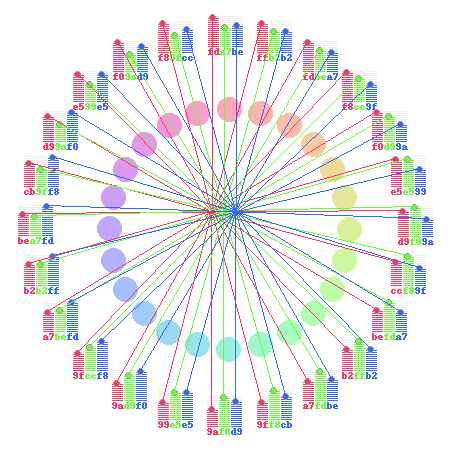
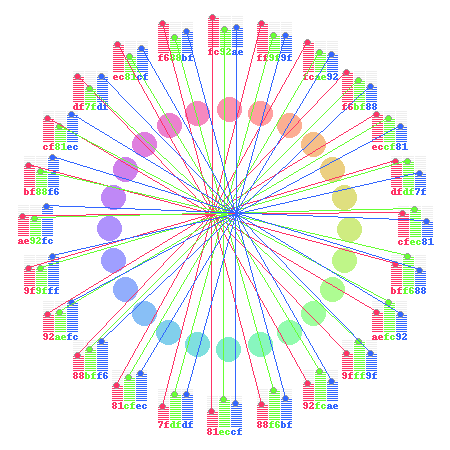
vivid まずまずのでき

diff --git a/step16.py b/step16.py
@@ -36,39 +36,64 @@ def main():
 
     im = Image.new('RGB', (450, 450), white)
     draw = ImageDraw.Draw(im)
-    # 正順
-    color_list = tone_filter(create_cos_wave(size), 1, 0)
+    color_list = unnormalize_filter(exaggeration_filter(
+        tone_filter(create_cos_wave(size), 1, 0)))
     draw_tone_circle(draw, theta_list, color_list)
-    # リバース
-    # color_list = reverse2_filter(create_cos_wave(size))
-    # draw_cell_circle(draw, 225, 225, 80, theta_list, color_list)
+    im.save('shared/vivid-tone.png')
+
+    im = Image.new('RGB', (450, 450), white)
+    draw = ImageDraw.Draw(im)
+    color_list = unnormalize_filter(tone_filter(create_cos_wave(size), 1, 0))
+    draw_tone_circle(draw, theta_list, color_list)
     im.save('shared/bright-tone.png')
 
     im = Image.new('RGB', (450, 450), white)
     draw = ImageDraw.Draw(im)
-    color_list = tone_filter(create_cos_wave(size), 0.2, 0.8)
+    color_list = unnormalize_filter(
+        tone_filter(create_cos_wave(size), 0.2, 0.8))
     draw_tone_circle(draw, theta_list, color_list)
     im.save('shared/pale-tone.png')
 
     im = Image.new('RGB', (450, 450), white)
     draw = ImageDraw.Draw(im)
-    color_list = tone_filter(create_cos_wave(size), 0.4, 0.6)
+    color_list = unnormalize_filter(
+        tone_filter(create_cos_wave(size), 0.5, 0.5))
     draw_tone_circle(draw, theta_list, color_list)
     im.save('shared/light-tone.png')
 
     im = Image.new('RGB', (450, 450), white)
     draw = ImageDraw.Draw(im)
-    color_list = tone_filter(create_cos_wave(size), 0.6, 0.0)
+    color_list = unnormalize_filter(
+        tone_filter(create_cos_wave(size), 0.6, 0.0))
     draw_tone_circle(draw, theta_list, color_list)
     im.save('shared/dark-tone.png')
 
 
 def tone_filter(color_list, multiple, offset):
-    return unnormalize_filter(add_filter(multiple_filter(normalize_filter(color_list), multiple), offset))
+    return add_filter(multiple_filter(normalize_filter(color_list), multiple), offset)
 
 
 def reverse2_filter(color_list):
-    return unnormalize_filter(reverse_filter(normalize_filter(color_list)))
+    return reverse_filter(normalize_filter(color_list))
+
+
+def exaggeration_filter(color_list):
+    """誇張フィルター。真ん中(0.5)と、端っこ(0,1)は そのまま。その中間は、端に寄る
+    """
+    def element(num):
+        if 0.5 < num:
+            return num + (1-num)*2/3
+        else:
+            return num - num*2/3
+
+    new_color_list = []
+
+    size = len(color_list)
+    for i in range(0, size):
+        new_color_list.append(
+            (element(color_list[i][0]), element(color_list[i][1]), element(color_list[i][2])))
+
+    return new_color_list
 
 
 def fit_filter(color_list, sum):
